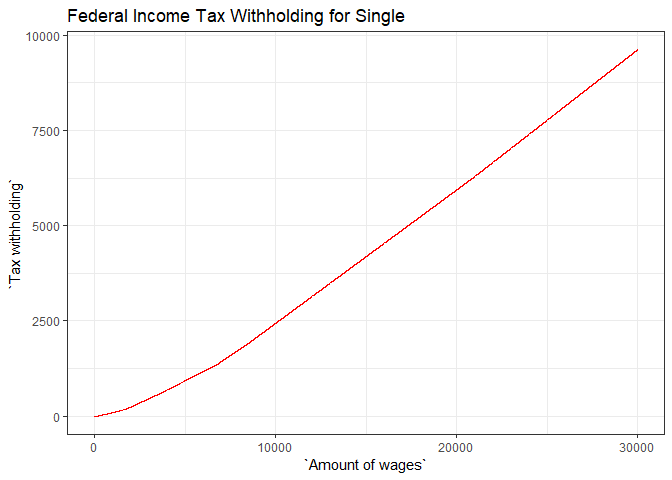
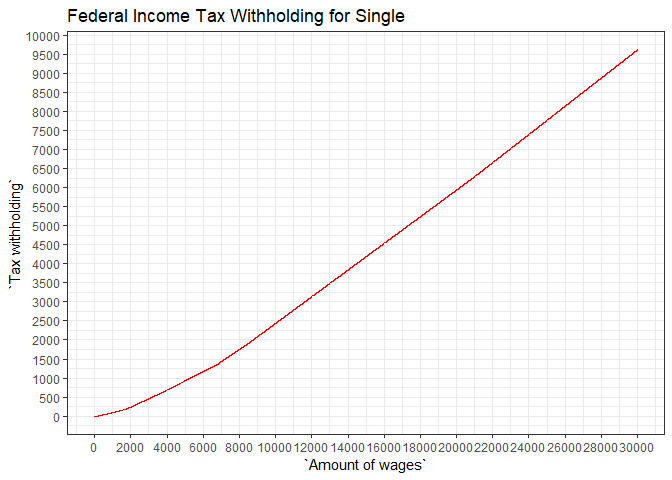
update

diff --git a/Tax.md b/Tax.md
@@ -54,6 +54,8 @@ str(data)
 ```r
 ggplot(data, aes(x = `Amount of wages`, y = `Tax withholding`)) +
   geom_line(color = "red") +
+  scale_x_continuous(breaks = round(seq(0, 30000, len = 16))) +
+  scale_y_continuous(breaks = round(seq(0, 10000, len = 21))) +
   ggtitle("Federal Income Tax Withholding for Single") + theme_bw()
 ```
 
@@ -63,5 +65,5 @@ ggplot(data, aes(x = `Amount of wages`, y = `Tax withholding`)) +
 ---
 title: "Tax.R"
 author: "Yohan_Min"
-date: "Sat Jan 19 15:49:08 2019"
+date: "Sat Jan 19 16:06:43 2019"
 ---
